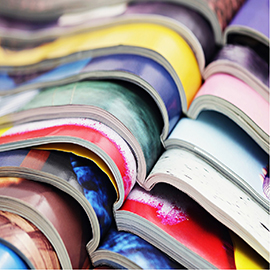
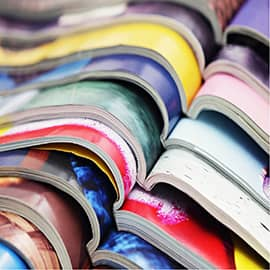
compressing and optimizing images

diff --git a/index.html b/index.html
@@ -60,7 +60,7 @@
 	<div class="container bloc-lg">
 		<div class="row tight-width-whitespace">
 			<div class="col-sm-12">
-				<img src="img/logo.png" class="center-block image-resize-mode" width="100" alt="La chouette agence, agence web paris, création logo paris" />
+				<img src="img/logo.png" class="center-block image-resize-mode" width="100" height="100" alt="La chouette agence, agence web paris, création logo paris" />
 				<h1 class="text-center hero-bloc-text tc-white ">
 					La chouette agence.
 				</h1>
@@ -118,7 +118,6 @@
 		</div>
 		<div class="row voffset-lg voffset">
 			<div class="col-xs-12 col-md-8 col-md-offset-2 text-center">
-				<!-- <img alt="agence web, agence web paris, web design paris, stratégie web" src="img/citation.png" /> -->
 				<h2><quote>La chouette agence est une excellente agence web! Les web designers ont réussi à capturer l'essence de notre entreprise et à l'intégrer à notre site.Cela nous a aidé à doubler nos ventes en ligne à Lyon</quote>
 						   <br>Maxime Guibard, PDG de A vos fourchettes
 				</h2>
@@ -150,13 +149,12 @@
 	<div class="container bloc-lg">
 		<div class="row">
 			<div class="col-sm-12 text-center">
-				<!-- <img alt="agence web, agence web paris, web design paris, stratégie web" src="img/title2.png" /> -->
 				<h2>Nous travaillons avec beaucoup de clients, voici nos réalisations.</h2>
 			</div>
 		</div>
 		<div class="row tight-width-whitespace portfolio-row">
 			<div class="col-sm-6">
-				<a href="#" data-lightbox="img/1.jpg" data-gallery-id="gallery-1" data-caption="Refonte d'un site web pour un journal local" data-frame="snapshot-lb"><img src="img/1.jpg" alt="paris web design logo agence web meilleure agence et refonte site web journal" class="img-responsive portfolio-thumb" /></a>
+				<a href="#" data-lightbox="img/1.jpg" data-gallery-id="gallery-1" data-caption="Refonte d'un site web pour un journal local" data-frame="snapshot-lb"><img src="img/1.jpg" class="img-responsive portfolio-thumb" alt="paris web design logo agence web meilleure agence et refonte site web journal" width="270" height="270"/></a>
 				<h3 class="mg-md text-center">
 					Refonte d'un site web pour un journal local
 				</h3>
@@ -165,7 +163,7 @@
 				</p>
 			</div>
 			<div class="col-sm-6">
-				<a href="#" data-lightbox="img/2.jpg" data-gallery-id="gallery-1" data-caption="Création d'un site web pour photographes" data-frame="snapshot-lb"><img src="img/2.jpg" class="img-responsive portfolio-thumb" alt="paris web design logo agence web meilleure agence, Création d'un site web pour photographes" /></a>
+				<a href="#" data-lightbox="img/2.jpg" data-gallery-id="gallery-1" data-caption="Création d'un site web pour photographes" data-frame="snapshot-lb"><img src="img/2.jpg" class="img-responsive portfolio-thumb" alt="paris web design logo agence web meilleure agence, Création d'un site web pour photographes" width="270" height="270"/></a>
 				<h3 class="mg-md text-center">
 					Création d'un site web pour photographes
 				</h3>
@@ -176,7 +174,7 @@
 		</div>
 		<div class="row tight-width-whitespace portfolio-row">
 			<div class="col-sm-6">
-				<a href="#" data-lightbox="img/3.bmp" data-gallery-id="gallery-1" data-caption="Création d'un site internet pour un voyageur" data-frame="snapshot-lb"><img src="img/3.bmp" class="img-responsive portfolio-thumb" alt="paris web design logo agence web meilleure agence, Création d'un site web pour voyageur"/></a>
+				<a href="#" data-lightbox="img/3.jpeg" data-gallery-id="gallery-1" data-caption="Création d'un site internet pour un voyageur" data-frame="snapshot-lb"><img src="img/3.jpeg" class="img-responsive portfolio-thumb" alt="paris web design logo agence web meilleure agence, Création d'un site web pour voyageur" width="270" height="270"/></a>
 				<h3 class="mg-md text-center">
 					Création d'un site internet pour un voyageur
 				</h3>
@@ -185,7 +183,7 @@
 				</p>
 			</div>
 			<div class="col-sm-6">
-				<a href="#" data-lightbox="img/4.bmp" data-gallery-id="gallery-1" data-caption="Conception d'un site pour une agence de mariage" data-frame="snapshot-lb"><img src="img/4.bmp" class="img-responsive portfolio-thumb" alt="paris web design logo agence web meilleure agence, Création d'un site web pour agence de mariage" /></a>
+				<a href="#" data-lightbox="img/4.jpeg" data-gallery-id="gallery-1" data-caption="Conception d'un site pour une agence de mariage" data-frame="snapshot-lb"><img src="img/4.jpeg" class="img-responsive portfolio-thumb" alt="paris web design logo agence web meilleure agence, Création d'un site web pour agence de mariage" width="270" height="270"/></a>
 				<h3 class="mg-md text-center">
 					Conception d'un site pour une agence de mariage
 				</h3>
